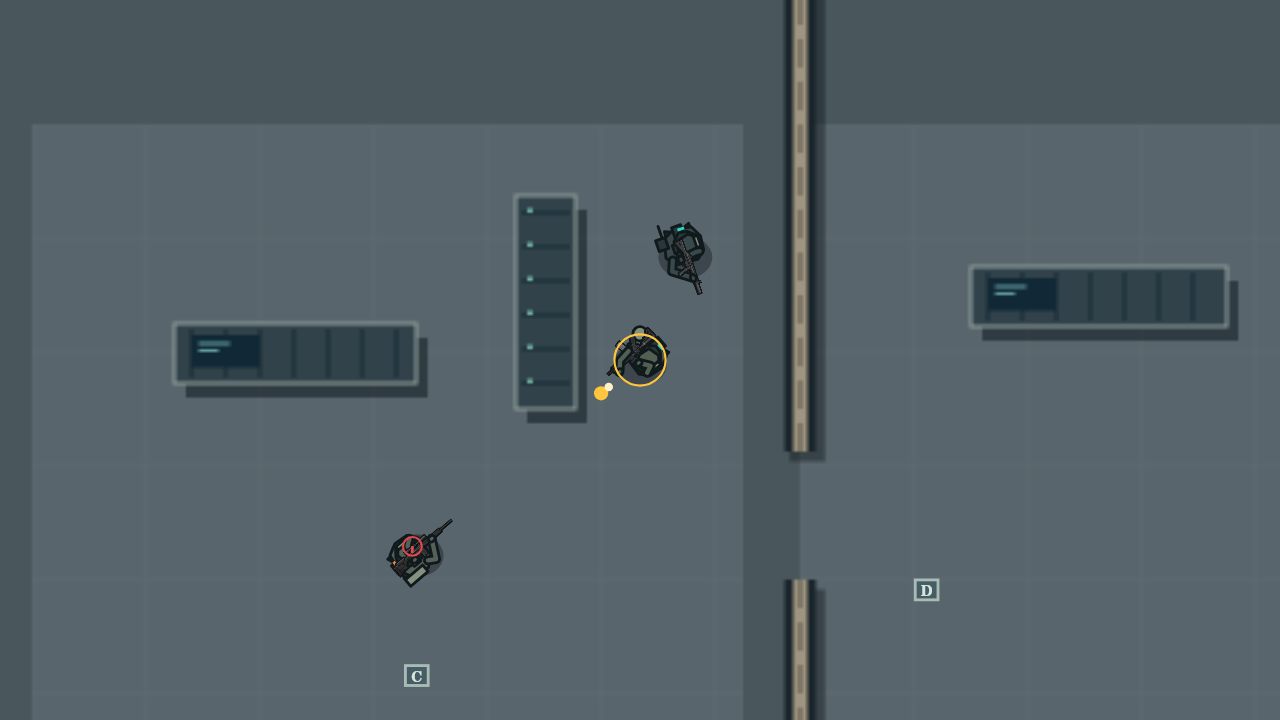
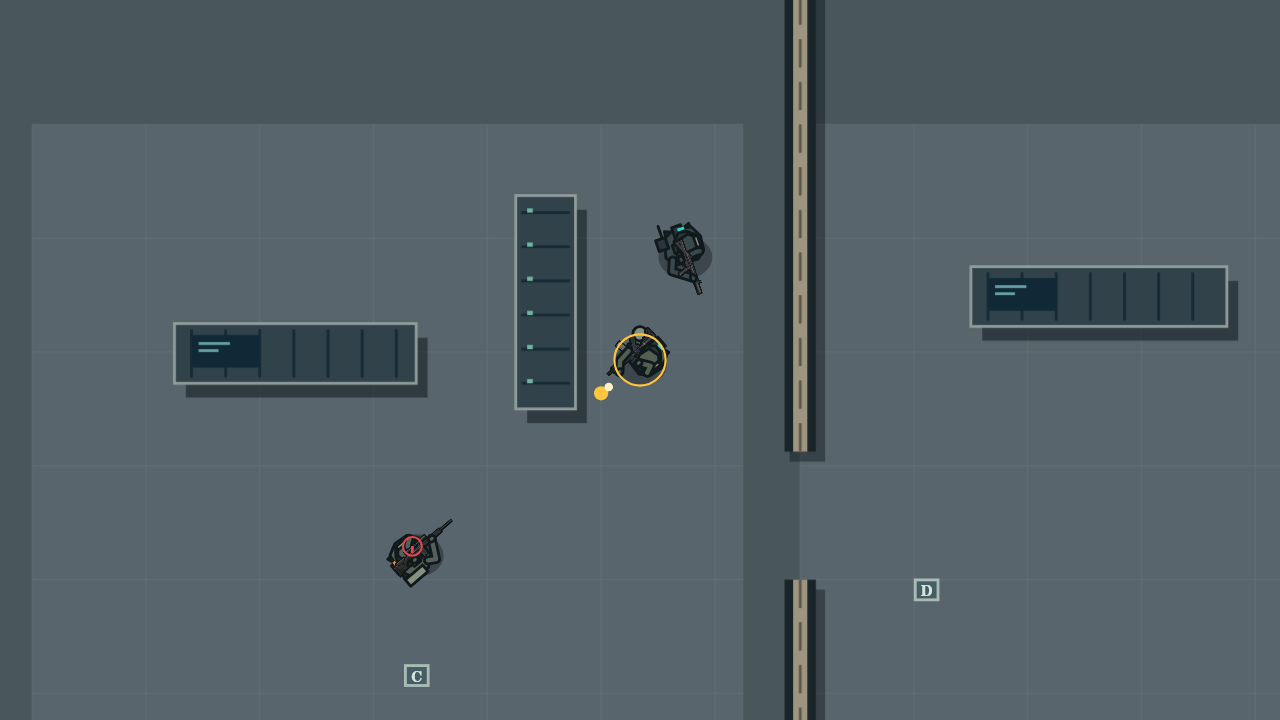
수정: 모바일 고밀도 관전 해상도와 지도·총기 캐시 개선

diff --git a/artifacts/draft-order-player-generator/src/components/BroadcastCanvas.tsx b/artifacts/draft-order-player-generator/src/components/BroadcastCanvas.tsx
@@ -9,6 +9,11 @@ import { cameraViewport, combatCamera, rememberContacts, visionPolygon } from '.
 import type { TacticalMapDefinition } from '../domain/tacticalMaps';
 import { createSmokeTexture, paintSmoke } from './smokeEffect';
 
+/** 고밀도 폰은 원래 DPR을 사용하되 캔버스 한 장을 약 16MB 이하로 제한합니다. */
+export function canvasSize(width:number,height:number,ratio:number):{width:number;height:number} {
+  const dpr=Math.min(Math.max(1,Number.isFinite(ratio)?ratio:1),3,Math.sqrt(4_000_000/Math.max(1,width*height)));
+  return {width:Math.max(1,Math.floor(width*dpr)),height:Math.max(1,Math.floor(height*dpr))};
+}
 const ROOT = `${import.meta.env.BASE_URL}operators/`;
 type Props = { tick: RealtimeTick | null; events: RealtimeEvent[]; map: TacticalMapDefinition; side: OperatorSide; selectedId: string | null; mode: 'broadcast' | 'follow' | 'full'; speed: number; paused: boolean; onSelect: (id: string) => void; onFocus?: (id: string | null) => void };
 
@@ -59,7 +64,7 @@ export function BroadcastCanvas(props: Props): ReactElement {
     const smokeTexture=createSmokeTexture();
     /** 인물 원화는 한 번만 읽고 디코드된 이미지를 재사용합니다. */
     const asset=(file:string):HTMLImageElement=>{let image=images.get(file);if(!image){image=new Image();image.src=ROOT+file;images.set(file,image);}return image;};
-    const touchMedia=window.matchMedia('(hover: none) and (pointer: coarse)'),motionMedia=window.matchMedia('(prefers-reduced-motion: reduce)');
+    const motionMedia=window.matchMedia('(prefers-reduced-motion: reduce)');
     let frame=0,scene:HTMLCanvasElement|null=null,sceneKey='',visionKey='';
     let cachedVision:RealtimeUnitState[]=[];let cachedVisibleIds=new Set<string>(),camera={x:0,y:0,width:430,height:260};
     let focusId:string|null=null,holdUntil=0,lastStamp=0,cameraReady=false;
@@ -73,7 +78,7 @@ export function BroadcastCanvas(props: Props): ReactElement {
     /** 실제 틱 사이의 이동만 표시하고 발사·탄착은 그 사건의 기록 위치와 시각으로 그립니다. */
     const draw=(stamp:number):void=>{
       frame=requestAnimationFrame(draw);const state=timeline.current,p=latest.current;if(!state)return;
-      const rect=canvas.getBoundingClientRect(),dpr=Math.min(touchMedia.matches||rect.height<520?1:1.5,window.devicePixelRatio||1),w=Math.max(1,Math.round(rect.width*dpr)),h=Math.max(1,Math.round(rect.height*dpr));
+      const rect=canvas.getBoundingClientRect(),{width:w,height:h}=canvasSize(rect.width,rect.height,window.devicePixelRatio||1);
       if(canvas.width!==w||canvas.height!==h){canvas.width=w;canvas.height=h;}
       const amount=p.paused?1:Math.min(1,Math.max(0,(stamp-state.received)/(100/p.speed)));
       const time=state.previous.time+(state.next.time-state.previous.time)*amount;
@@ -108,17 +113,20 @@ export function BroadcastCanvas(props: Props): ReactElement {
       const elapsed=Math.min(.05,(stamp-lastStamp)/1000||.016);lastStamp=stamp;
       const reducedMotion=motionMedia.matches;
       const blend=reducedMotion||!cameraReady?1:1-Math.exp(-elapsed*9);
-      for(const key of ['x','y','width','height'] as const)camera[key]+=(viewport[key]-camera[key])*blend;
+      for(const key of ['x','y','width','height'] as const){const delta=viewport[key]-camera[key];camera[key]=Math.abs(delta)<.01?viewport[key]:camera[key]+delta*blend;}
       cameraReady=true;
       const scale=Math.min(w/camera.width,h/camera.height),ox=(w-camera.width*scale)/2,oy=(h-camera.height*scale)/2;
       // 관전 밖의 폭발은 화면을 흔들지 않으며 동작 줄이기·일시 정지는 충격을 끕니다.
       const blast=!reducedMotion&&!p.paused&&p.mode!=='full'?[...events].reverse().find(event=>event.position&&event.position.x>=camera.x&&event.position.x<=camera.x+camera.width&&event.position.y>=camera.y&&event.position.y<=camera.y+camera.height&&vision.some(friend=>observer.canObserve(friend,event.position!,map,snapshot.gadgets,time))&&time-event.time>=0&&time-event.time<.38&&(event.goal==='grenade-exploded'||event.goal==='wall-breached')):undefined;
       const blastAge=blast?time-blast.time:1,shake=blast?(1-blastAge/.38)*Math.min(7,scale*5):0,shakeX=(seeded(`${blast?.time}:x`,Math.floor(blastAge*80))-.5)*shake,shakeY=(seeded(`${blast?.time}:y`,Math.floor(blastAge*80))-.5)*shake;
       ctx.setTransform(1,0,0,1,0,0);ctx.fillStyle='#080E12';ctx.fillRect(0,0,w,h);ctx.setTransform(scale,0,0,scale,ox-camera.x*scale+shakeX,oy-camera.y*scale+shakeY);
-      const key=p.map.id+':'+breaches.map(b=>b.wallId+':'+b.position.x+':'+b.position.y).join(',')+':'+(snapshot.fortifications??[]).map(item=>item.id).join(',');
-      if(!scene||key!==sceneKey){scene=document.createElement('canvas');scene.width=Math.ceil(map.width/2);scene.height=Math.ceil(map.height/2);const sceneContext=scene.getContext('2d')!;sceneContext.scale(.5,.5);paintBattleMap(sceneContext,map);sceneKey=key;}
+      const mapX=Math.floor((camera.x*scale-ox)/128)*128,mapY=Math.floor((camera.y*scale-oy)/128)*128;
+      const key=[w,h,mapX,mapY,scale].join(':')+':'+p.map.id+':'+breaches.map(b=>b.wallId+':'+b.position.x+':'+b.position.y).join(',')+':'+(snapshot.fortifications??[]).map(item=>item.id).join(',');
+      // 전체 지도를 저해상도로 확대하지 않고 현재 화면만 출력 픽셀에 직접 그립니다.
+      // 카메라가 멈추면 재사용하며, 이동·회전·파괴 시 같은 캔버스를 갱신합니다.
+      if(!scene||key!==sceneKey){scene??=document.createElement('canvas');if(scene.width!==w+128||scene.height!==h+128){scene.width=w+128;scene.height=h+128;}const c=scene.getContext('2d')!;c.setTransform(1,0,0,1,0,0);c.clearRect(0,0,scene.width,scene.height);c.setTransform(scale,0,0,scale,-mapX,-mapY);paintBattleMap(c,map);sceneKey=key;}
       // 감독은 익숙한 경기장 구조를 보되 상대 선수·가젯은 실제 개인 시야로 확인된 경우에만 봅니다.
-      ctx.globalAlpha=.86;ctx.drawImage(scene,camera.x/2,camera.y/2,camera.width/2,camera.height/2,camera.x,camera.y,camera.width,camera.height);ctx.globalAlpha=1;
+      ctx.save();ctx.setTransform(1,0,0,1,shakeX,shakeY);ctx.globalAlpha=.86;ctx.drawImage(scene,ox-camera.x*scale+mapX,oy-camera.y*scale+mapY);ctx.restore();
       // 전술 보기의 선택 아군만 실제 벽·연막으로 잘린 시야를 표시합니다. 적 정보는 추가로 공개하지 않습니다.
       const watched=p.mode==='full'?snapshot.units.find(unit=>unit.id===p.selectedId&&unit.side===p.side&&unit.alive):undefined;
       if(watched){const key=snapshot.time+':'+watched.id;if(key!==fanKey){fanKey=key;

diff --git a/artifacts/draft-order-player-generator/src/components/weaponParts.ts b/artifacts/draft-order-player-generator/src/components/weaponParts.ts
@@ -23,20 +23,20 @@ export const WEAPON_PARTS:WeaponPart[]=[
 ];
 export function weaponPart(name:string):WeaponPart{return WEAPON_PARTS.find(item=>name.includes(item.id))??WEAPON_PARTS[0];}
 // 큰 원본을 매 프레임 직접 축소하지 않고 중간 해상도를 한 번만 준비합니다.
-const thumbnails=new WeakMap<HTMLImageElement,{color:HTMLCanvasElement;ink:HTMLCanvasElement}>();
-function thumbnail(image:HTMLImageElement):{color:HTMLCanvasElement;ink:HTMLCanvasElement}{
- const ready=thumbnails.get(image);if(ready)return ready;
+const thumbnails=new WeakMap<HTMLImageElement,Map<number,{color:HTMLCanvasElement;ink:HTMLCanvasElement}>>();
+function thumbnail(image:HTMLImageElement,target:number):{color:HTMLCanvasElement;ink:HTMLCanvasElement}{
+ let levels=thumbnails.get(image);if(!levels){levels=new Map();thumbnails.set(image,levels);}const ready=levels.get(target);if(ready)return ready;
  let source:CanvasImageSource=image,width=image.naturalWidth,height=image.naturalHeight;
  let canvas:HTMLCanvasElement;
  do{
-  const nextWidth=Math.max(192,Math.round(width/2)),nextHeight=Math.round(height*nextWidth/width);
+  const nextWidth=Math.max(target,Math.round(width/2)),nextHeight=Math.round(height*nextWidth/width);
   canvas=document.createElement('canvas');canvas.width=nextWidth;canvas.height=nextHeight;
   const c=canvas.getContext('2d')!;c.imageSmoothingEnabled=true;c.imageSmoothingQuality='high';c.drawImage(source,0,0,nextWidth,nextHeight);
   source=canvas;width=nextWidth;height=nextHeight;
- }while(width>192);
+ }while(width>target);
  const mask=document.createElement('canvas');mask.width=canvas.width;mask.height=canvas.height;
  const c=mask.getContext('2d')!;c.drawImage(canvas,0,0);c.globalCompositeOperation='source-in';c.fillStyle='#10191C';c.fillRect(0,0,mask.width,mask.height);
- const result={color:canvas,ink:mask};thumbnails.set(image,result);return result;
+ const result={color:canvas,ink:mask};levels.set(target,result);return result;
 }
 // 기준점 정렬과 이미지 표시만 수행합니다. 로딩 실패 시 거부된 도형 총기를 재사용하지 않습니다.
 export function paintWeaponPart(ctx:CanvasRenderingContext2D,name:string,asset:WeaponAssetLoader):boolean{
@@ -44,7 +44,9 @@ export function paintWeaponPart(ctx:CanvasRenderingContext2D,name:string,asset:W
  if(!image||!image.complete||!image.naturalWidth)return false;
  const scale=part.length/(part.muzzle[0]-part.rear);
  ctx.save();ctx.imageSmoothingEnabled=true;ctx.imageSmoothingQuality='high';
- const sprite=thumbnail(image),x=-part.muzzle[0]*scale,y=-part.muzzle[1]*scale,w=image.naturalWidth*scale,h=image.naturalHeight*scale;
+ const transform=ctx.getTransform(),pixels=image.naturalWidth*scale*Math.hypot(transform.a,transform.b);
+ const target=Math.min(image.naturalWidth,pixels<=192?192:pixels<=384?384:768);
+ const sprite=thumbnail(image,target),x=-part.muzzle[0]*scale,y=-part.muzzle[1]*scale,w=image.naturalWidth*scale,h=image.naturalHeight*scale;
  // 새 도형이 아니라 PNG 자체의 알파 외곽을 따라 작은 전장용 테두리를 합성합니다.
  for(const [dx,dy] of [[-.65,-.65],[.65,-.65],[-.65,.65],[.65,.65]])ctx.drawImage(sprite.ink,x+dx,y+dy,w,h);
  ctx.drawImage(sprite.color,x,y,w,h);

diff --git a/docs/mobile-qa-stack-20260912.md b/docs/mobile-qa-stack-20260912.md
@@ -1,0 +1,33 @@
+# 모바일 열화·QA·언어 검토 — 2026-09-12
+
+기준: GitHub 9b0d858. 업로드된 구버전 Safari 화면에서 지도/대원이 HUD보다 흐리게 보이는 신고를 현재 코드와 대조했습니다.
+
+## 실제 수정
+
+- 터치 또는 높이 520px 미만 화면을 DPR 1로 강제하던 제한을 제거했습니다. 기기 DPR을 최대 3까지 사용하고 출력 캔버스는 400만 픽셀로 제한합니다. 이것은 모든 기기의 FPS 보장이 아닙니다.
+- 지도 0.5배 래스터 확대를 제거했습니다. 현재 화면과 128 출력 픽셀 여백만 원래 출력 밀도로 그립니다. 128픽셀 구간 내 이동에서는 캐시를 재사용하며 카메라 배율·지형 파괴·화면 크기가 바뀌면 갱신합니다. 전체 지도를 Retina 배율로 거대하게 할당하지 않습니다.
+- 총기 원본은 유지하고 192/384/768px 중 실제 출력 크기에 필요한 중간 이미지를 선택합니다. 코드 총기 외형을 재도입하지 않았습니다.
+- CSS 기준 45px 선택 반경을 유지합니다. 해상도 증가가 카메라 확대나 AI 지각을 바꾸지 않습니다.
+
+## 검증 범위
+
+실제 BroadcastCanvas를 로컬 Skia로 렌더링한 16조건, 우리 팀 지속 표시, 무기 PNG 실제 표시, CSS 터치 선택/빈 곳 제외, 동일 캔버스 가로세로 전환·주소창 높이·DPR 변경을 검사했습니다. 고밀도 조건은 360×800/2, 390×844/3, 430×932/3, 412×915/2.625, 844×390/3, 1024×1366/2입니다. 390×844에서는 1170×2532 출력입니다. 태블릿은 픽셀 예산으로 1731×2309입니다. 보고서의 시간은 로컬 Skia 측정치로 변동이 크며 Safari/Chrome 실기기 FPS와 배터리 검증이 아닙니다. 12총기×8방향 검사, 타입 검사 및 빌드도 통과했습니다.
+
+실기기에서 남은 확인: iOS Safari와 Android Chrome 각각 가로세로 전환, 5분 이상 이동/연막 교전, 발열·메모리·프레임, 주소창 확장/축소, 작은 HUD 글자. 전체 기종 무결점으로 판정하지 않습니다.
+
+## Claude QA 상태
+
+요청 링크: https://claude.ai/code/artifact/5217a640-988e-444c-876d-10cb87ac0eb1
+일반 열람이 실패해 본문을 받지 못했습니다. QA 항목·심각도·해결 여부를 추측하지 않았습니다. PDF/Markdown/본문 첨부 후 각 항목을 `구버전 기준 / 현행 재현 / 수정 / 검증 / 미완료`로 대조해야 합니다.
+
+## C# 전환 판단
+
+현재 확인된 열화 원인은 렌더링 해상도 설정입니다. TypeScript 언어 자체가 이 화질을 강제하지 않습니다. 5v5 시뮬레이션은 이미 Worker에서 실행되고 있습니다. 따라서 이번에는 TypeScript + React + Canvas2D를 유지합니다. 네이티브 앱, 엔진 편집기 또는 프로파일링으로 확인된 CPU 병목 때문에 전환 이득이 생기면 별도로 평가합니다. 이번 작업에서 C# 이식은 하지 않았습니다.
+
+- [MDN devicePixelRatio](https://developer.mozilla.org/en-US/docs/Web/API/Window/devicePixelRatio): Retina Canvas의 출력 픽셀 밀도를 보정하는 방법.
+- [Unity 6000.5 브라우저 호환성](https://docs.unity3d.com/6000.5/Documentation/Manual/webgl-browsercompatibility.html): 모바일 브라우저 지원이 있으므로 구버전의 모바일 미지원 문구로 일괄 배제하지 않습니다. 실제 우리 게임의 로딩·메모리·프레임은 이식 프로토타입 측정이 필요합니다.
+- [Godot stable C#](https://docs.godotengine.org/en/stable/tutorials/scripting/c_sharp/index.html): C# 프로젝트의 웹 내보내기 제약이 있어 현재 폰 브라우저 중심 배포에 그대로 대체할 수 없습니다.
+
+## 총기 수정 상태
+
+L119A2와 HK416 원본에서 열린 배출구 덮개가 보입니다. C14는 내려간 볼트 손잡이와 볼트 표면이 보여 배출구가 보인다는 이유만으로 약실 개방이라고 판정하지 않았습니다. L119A2 국소 편집을 생성했지만 결과가 RGB 체크무늬 배경(1774×887)으로 나와 제외했습니다. 승인 원본과 알파를 보존했습니다. 약실/덮개 보정은 완료되지 않았으며, 저품질 코드 도형 대체를 하지 않았습니다.

diff --git a/docs/sprite-production-current.md b/docs/sprite-production-current.md
@@ -1,10 +1,10 @@
-# 현재 작업 프롬프트 — 2026-09-12
+# 현재 작업 프롬프트 — 2026-09-12 모바일·QA 후속
 
-목표: 사용자가 거부한 코드 총기를 개별 래스터 스프라이트로 교체하고 과도하게 늘어나는 투척 팔을 수정한다.
-완료 조건: 참조 시트 수준의 총기 식별 구조, 투명 배경, 총구/파지 정렬, 실제 중계 연결. 생성만 한 시안과 연결·검증을 구분한다.
-금지: 벡터 총기 재사용, 품질을 낮춘 대체물, 가짜 투척 판정, 별도 API 과금.
-현재 근거: 기존 12종은 코드 도형이며 사용자가 품질 미달로 거부했다. 투척은 직선 팔 길이 변화여서 부자연스럽다.
-다음 행동: L119A2 개별 스프라이트부터 새 프롬프트로 생성·검수하고 같은 제작 규격을 총종별로 조정한다.
+목표: 승인된 생성 총기를 유지하면서 약실 개방처럼 보이는 부분을 국소 수정하고, 모바일 캔버스 열화 원인을 제거한다. 구버전 Claude QA는 본문 확보 후 현재 코드와 대조한다.
+완료 조건: DPR·화면 크기·회전별 실제 렌더러와 CSS 터치 좌표 검증, 원화 알파와 파지 기준점 보존, GitHub 안전 병합·푸시와 Replit Free 실행 확인. 실기기 검증과 로컬 검증을 구분한다.
+제약: 거부된 코드 총기 재사용 금지. 기존 데이터·AI 정보 규칙·포트·작업 보존. 유료 옵션 금지. QA 본문 추측 금지. C# 전환은 언어 자체 병목의 근거가 있을 때만 한다.
+현재 근거: 터치/짧은 화면 DPR 1 제한, 지도 0.5배 캐시, 총기 192px 고정 중간 이미지. 시뮬레이션은 Worker에서 실행된다. Claude 링크 일반 열람 실패로 본문 미확보.
+다음 행동: 화면 픽셀 예산 내 고밀도 출력과 화면 크기 지도 캐시를 적용·검증한다. 총기는 원본 검수 후 국소 편집 프롬프트를 별도 기록한다.
 
 ## 공통 제작 프롬프트
 
@@ -45,3 +45,7 @@
 One isolated production raster sprite for DRAFT ORDER. Perfect horizontal right-facing side profile: stock left, muzzle right. Realistic recognizable exterior firearm structure and proportions, illustrated tactical weapon mod quality. Bold continuous near-black outline, charcoal metal with 2–3 large flat gray highlight planes, low-saturation military polymer furniture. Purposeful receiver/controls/rail/magazine details at the quality of detailed RimWorld gun mods, never crude geometric icon shapes. Crisp cel shaded hand-drawn illustration, NO photographic textures, gradient noise, stippling or glossy 3D rendering. Exactly ONE whole gun, clear margins, large landscape image. Genuine transparent PNG alpha around it and through open trigger guard/stock spaces. No checkerboard, solid background, text, logo, watermark, hands, person, detached parts or shadow.
 
 각 호출에는 위 표의 총종별 대상 문장을 덧붙였습니다. 기본 제공 이미지 생성 도구를 사용했으며 별도 API 키·유료 CLI는 사용하지 않았습니다.
+
+## 국소 편집 프롬프트 — 이번 작업
+
+대상 L119A2 / HK416 각 개별 원본. precise-object-edit. 현재 승인된 측면 게임 PNG를 그대로 유지하고 리시버의 열린 배출구 덮개만 닫힌 상태로 변경한다. 약실 내부가 드러나 보이지 않게 하되 리시버 전체를 새로 디자인하지 않는다. 총구, 개머리판, 탄창, 손잡이, 조준경, 색상, 외곽, 여백, 원본 크기와 투명 알파를 보존한다. 한 자루, 배경·체크무늬·그림자·텍스트 없음. 편집 결과의 알파/구도/기준점이 깨지면 연결하지 않는다. 다른 총종은 열린 덮개와 닫힌 노리쇠가 보이는 배출구를 혼동해 일괄 덮지 않는다.

diff --git a/docs/PROJECT_STATE.md b/docs/PROJECT_STATE.md
@@ -1,3 +1,7 @@
+## 최신 후속 — 모바일 해상도 수정 (2026-09-12)
+
+작업 기준 9b0d858. 터치 DPR1·지도 절반 해상도 확대를 제거하고 화면 크기 지도 캐시, 출력 크기별 생성 총기 이미지 캐시를 적용했습니다. 16개 로컬 렌더 조건/회전/터치 검사, 96방향 무기, 타입·빌드 통과. 실기기 전체 호환성은 미검증입니다. Claude QA 본문은 링크 열람 실패로 미확보, C# 전환은 언어 병목 근거가 없어 미시행. 총기 덮개 편집은 RGB 체크무늬 출력이라 제외하여 기존 승인 원본을 유지합니다. 자세한 근거와 미완료는 docs/mobile-qa-stack-20260912.md. GitHub/Replit 전달 결과는 실제 완료 후 세션에서 보고합니다.
+
 # DRAFT ORDER — 이어서 작업할 때 읽는 요약
 
 기준: 2026-09-12 인수인계 복원 및 후속 개선. 최신 사용자 결정이 이전 기획보다 우선합니다. 세부 이력은 Git에 보존하며 매번 대화 전체를 다시 읽지 않습니다.
